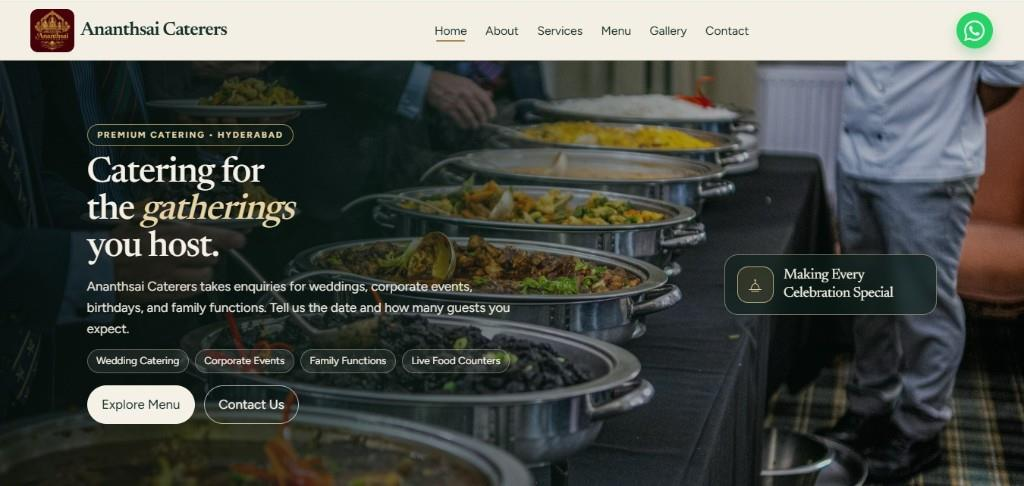
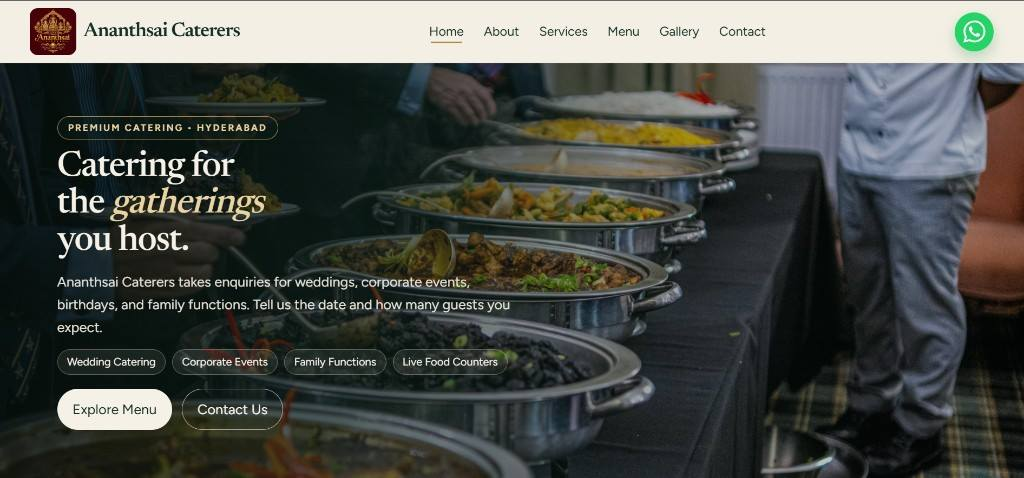
Show each project homepage in full without cropping the screenshot.
Compress the three images and size the project frames to the picture so the header and page content stay visible.

diff --git a/src/data/site.js b/src/data/site.js
@@ -137,8 +137,8 @@ export const projects = [
       "An organic products e-commerce website that helps customers explore products and shop online.",
     cover: "/images/projects/arogya-adarsh-homepage.jpg",
     imageWidth: 1024,
-    imageHeight: 483,
-    imageFit: "cover",
+    imageHeight: 475,
+    imageFit: "contain",
     liveUrl: "https://arogyaadarshorganic.com/home",
     overview:
       "An organic products e-commerce website that helps customers explore products and shop online.",
@@ -156,8 +156,8 @@ export const projects = [
       "A fitness website for online training programs, pricing, and a fit-score check.",
     cover: "/images/projects/dottfit-homepage.jpg",
     imageWidth: 1024,
-    imageHeight: 474,
-    imageFit: "cover",
+    imageHeight: 473,
+    imageFit: "contain",
     liveUrl: "https://dottfit.co.in/",
     overview:
       "A fitness website where people can look at training programs, pricing, and check a fit score.",
@@ -174,8 +174,8 @@ export const projects = [
       "A catering website for weddings, corporate events, birthdays, and family functions, with a menu and an enquiry.",
     cover: "/images/projects/ananthsai-caterers-homepage.jpg",
     imageWidth: 1024,
-    imageHeight: 486,
-    imageFit: "cover",
+    imageHeight: 478,
+    imageFit: "contain",
     liveUrl: "https://ananthsai-caterers.aibzr.com/",
     overview:
       "A catering website where hosts can look at services, the menu, and a food gallery, then send an enquiry.",

diff --git a/src/index.css b/src/index.css
@@ -537,15 +537,16 @@ a {
 }
 
 .rail-frame {
-  aspect-ratio: 16 / 10;
+  height: auto;
 }
 
 .rail-frame img,
 .project-media img,
 .dialog-cover {
   width: 100%;
-  height: 100%;
-  object-fit: cover;
+  height: auto;
+  object-fit: contain;
+  object-position: center;
 }
 
 .rail-frame img.fit-contain,
@@ -695,10 +696,11 @@ a {
 }
 
 .project-media {
-  aspect-ratio: 16 / 9;
+  height: auto;
   border: 0;
   border-radius: 0;
   box-shadow: none;
+  line-height: 0;
 }
 
 .project-copy {
@@ -1031,7 +1033,7 @@ a {
 }
 
 .dialog-cover {
-  aspect-ratio: 16 / 10;
+  height: auto;
   margin-bottom: 0.75rem;
 }
 
